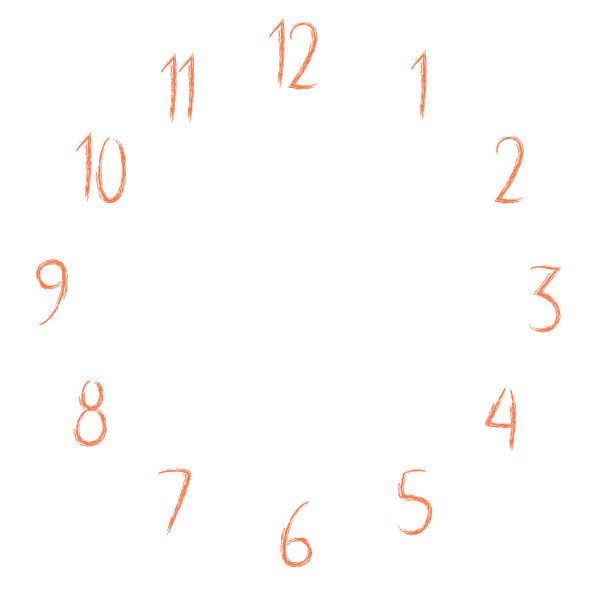
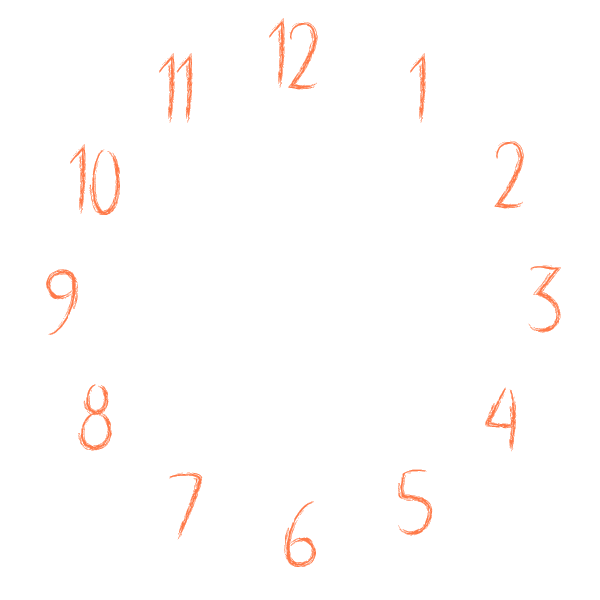
added small digital signature thing
synced events with class change times
added special 4:20 PM testing event (don't worry, not offensive)

fixed number placement, it's better now

diff --git a/src/com/company/Main.java b/src/com/company/Main.java
@@ -85,7 +85,7 @@ class Clock extends JFrame implements Runnable{
 
 
     public void initFrame() {
-        setTitle("Halloween Clock");
+        setTitle("Halloween Clock by TornadoOfSoup");
         setLayout(new BorderLayout());
         setDefaultCloseOperation(WindowConstants.EXIT_ON_CLOSE);
         setSize(resolution[0], resolution[1]);
@@ -100,6 +100,7 @@ class Clock extends JFrame implements Runnable{
         digitalClock.setFont(new Font("Courier New", Font.BOLD, 40));
         digitalClock.setSize(getWidth() / 12, getWidth() / 36);
         digitalClock.setForeground(new Color(200, 0, 0, 150));
+        digitalClock.setBackground(new Color(0, 0, 0, 0));
         digitalClock.setOpaque(false);
         add(digitalClock, BorderLayout.AFTER_LAST_LINE);
 
@@ -197,6 +198,8 @@ class Clock extends JFrame implements Runnable{
                     conjureSpoopy();
                 } else if (e.getKeyChar() == '8') {
                     conjureTravis();
+                } else if (e.getKeyChar() == '9') {
+                    digitalClock.setText("Made by TornadoOfSoup");
                 }
             }
 
@@ -567,10 +570,131 @@ class Clock extends JFrame implements Runnable{
                     conjureTravis();
                 }
 
+                if (hour == 8 && minute == 15 && amOrPM == calendar.AM) {
+                    if (second >= 0 && second <= 10) {
+                        conjureGhost();
+                        if (second % 2 == 0) {
+                            conjureSpoopy();
+                        }
+                    }
+                }
+
+                if (hour == 8 && minute == 19 && amOrPM == calendar.AM) {
+                    if (second >= 0 && second <= 5) {
+                        conjureGhost();
+                    }
+                }
+
+
+                if (hour == 9 && minute == 7 && amOrPM == calendar.AM) {
+                    if (second >= 0 && second <= 10) {
+                        conjureGhost();
+                        if (second % 2 == 0) {
+                            conjureSpoopy();
+                        }
+                    }
+                }
+
+                if (hour == 9 && minute == 11 && amOrPM == calendar.AM) {
+                    if (second >= 0 && second <= 5) {
+                        conjureGhost();
+                    }
+                }
+
+                if (hour == 9 && minute == 59 && amOrPM == calendar.AM) {
+                    if (second >= 0 && second <= 10) {
+                        conjureGhost();
+                        if (second % 2 == 0) {
+                            conjureSpoopy();
+                        }
+                    }
+                }
+
+                if (hour == 10 && minute == 3 && amOrPM == calendar.AM) {
+                    if (second >= 0 && second <= 5) {
+                        conjureGhost();
+                    }
+                }
+
+                if (hour == 10 && minute == 51 && amOrPM == calendar.AM) {
+                    if (second >= 0 && second <= 10) {
+                        conjureGhost();
+                        if (second % 2 == 0) {
+                            conjureSpoopy();
+                        }
+                    }
+                }
+
+                if (hour == 10 && minute == 55 && amOrPM == calendar.AM) {
+                    if (second >= 0 && second <= 5) {
+                        conjureGhost();
+                    }
+                }
+
+                if (hour == 11 && minute == 43 && amOrPM == calendar.AM) {
+                    if (second >= 0 && second <= 10) {
+                        conjureGhost();
+                        if (second % 2 == 0) {
+                            conjureSpoopy();
+                        }
+                    }
+                }
+
+                if (hour == 11 && minute == 47 && amOrPM == calendar.AM) {
+                    if (second >= 0 && second <= 5) {
+                        conjureGhost();
+                    }
+                }
+
+                if (hour == 12 && minute == 35 && amOrPM == calendar.PM) {
+                    if (second >= 0 && second <= 15) {
+                        conjureGhost();
+                        if (second % 2 == 0) {
+                            conjureSpoopy();
+                        }
+                        if (second % 3 == 0) {
+                            conjureGlowingRem();
+                        }
+                    }
+                }
+
+                if (hour == 1 && minute == 5 && amOrPM == calendar.PM) {
+                    if (second >= 0 && second <= 5) {
+                        conjureGhost();
+                    }
+                }
+
+                if (hour == 1 && minute == 53 && amOrPM == calendar.PM) {
+                    if (second >= 0 && second <= 10) {
+                        conjureGhost();
+                        if (second % 2 == 0) {
+                            conjureSpoopy();
+                        }
+                    }
+                }
+
+                if (hour == 1 && minute == 57 && amOrPM == calendar.PM) {
+                    if (second >= 0 && second <= 5) {
+                        conjureGhost();
+                    }
+                }
+
                 if (hour == 2 && minute == 45 && amOrPM == calendar.PM) {
                     conjureGhost();
                     conjureSpoopy();
                     conjureGlowingRem();
+                    if (second >= 25 && second <= 35) {
+                        conjureTravis();
+                    }
+                }
+
+                if (hour == 4 && minute == 20 && amOrPM == calendar.PM) {
+                    if (second <= 30) {
+                        conjureSpoopy();
+                        if (second % 2 == 0) {
+                            conjureGlowingRem();
+                        }
+                    }
                 }
 
                 currentSecond = second;
